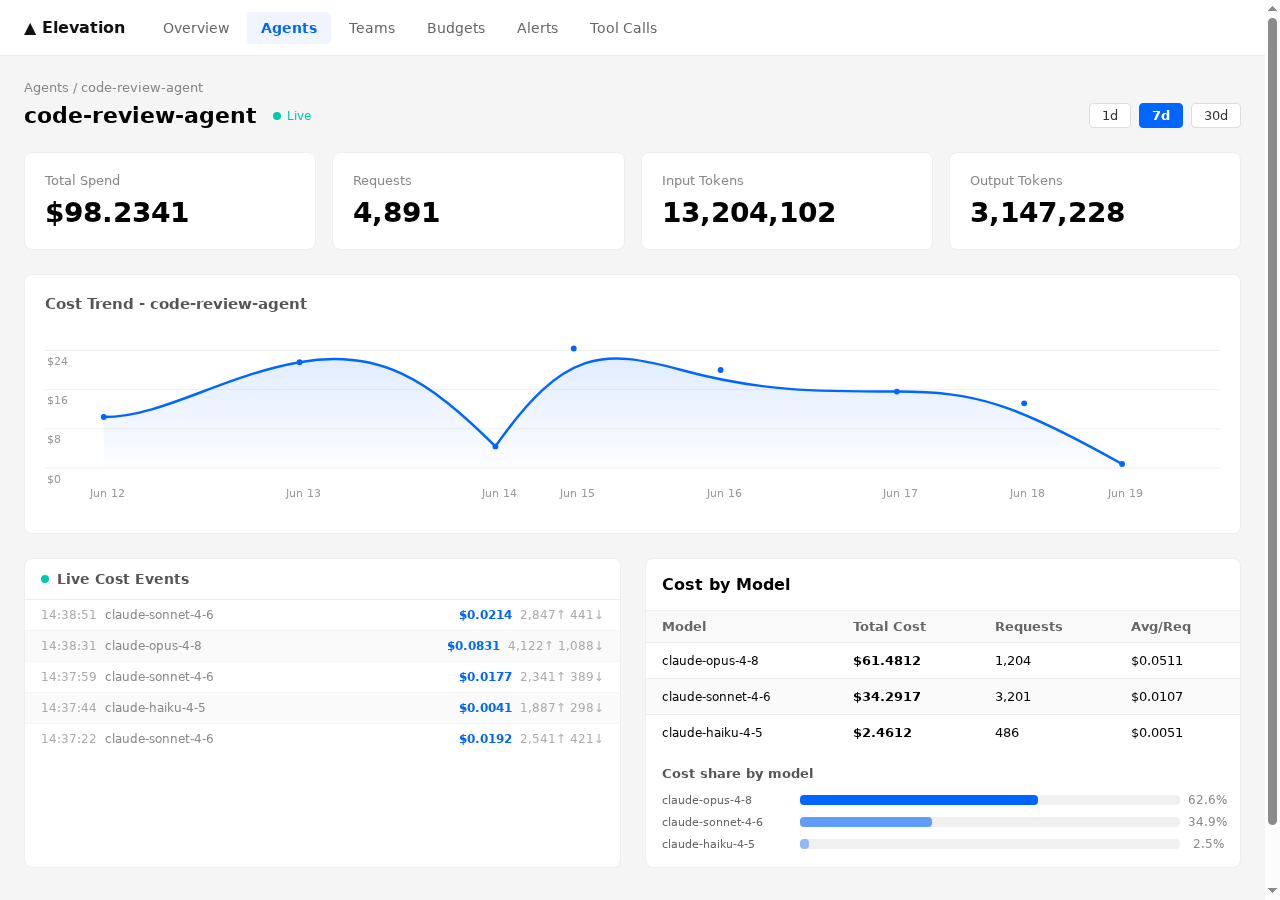
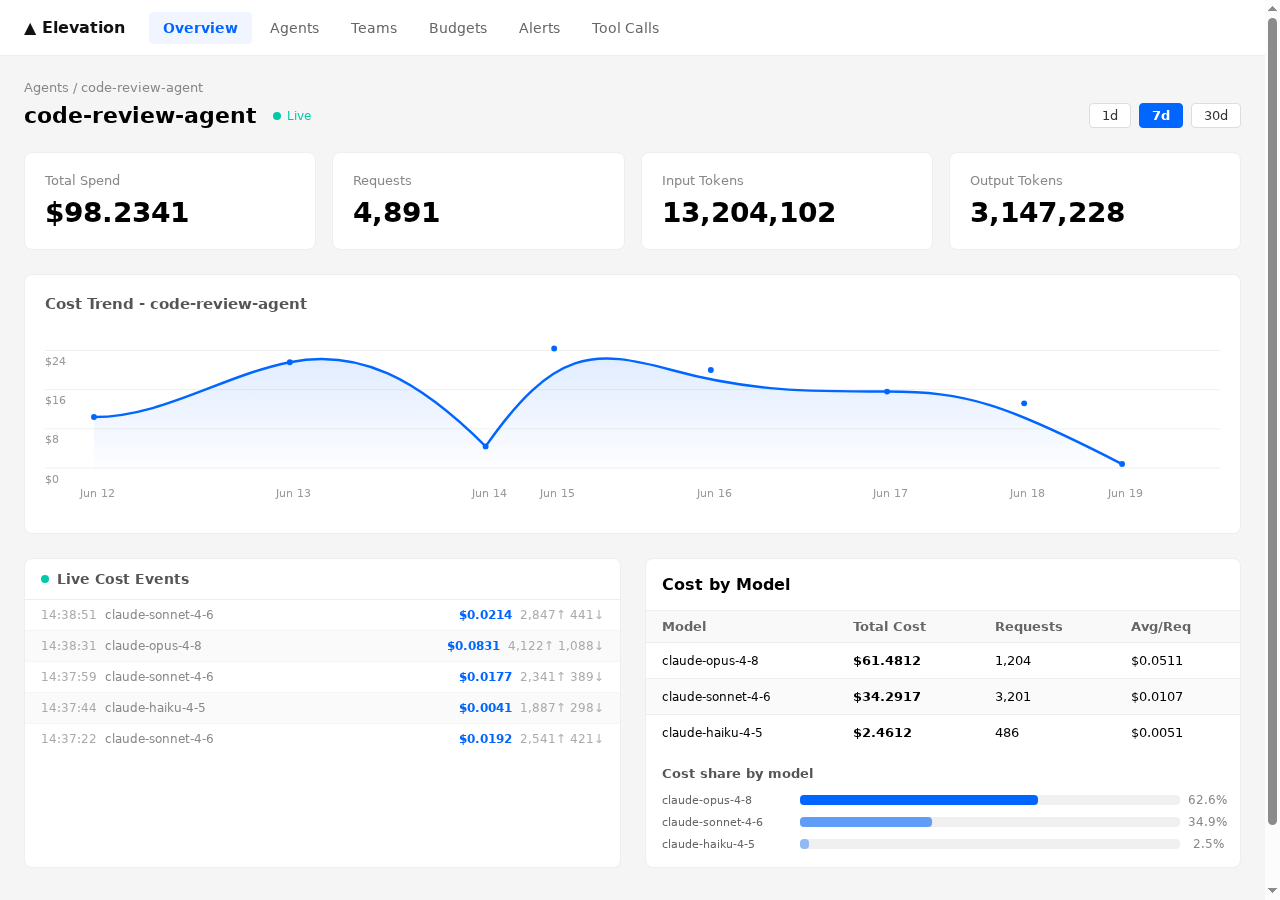
docs: add dashboard screenshots to README for Show HN launch
Generates browser screenshots of the overview, budgets, and agent-detail
pages using headless chromium + bundled system libs. Fixes TMP_DIR not
being exported to the node subprocess in gen-screenshots.sh, which caused
the HTML temp files to write to 'undefined/overview.html'.

Adds the overview screenshot inline after the "Open the dashboard" step
in the 5-minute setup section.

diff --git a/README.md b/README.md
@@ -122,6 +122,8 @@ The agent stops. You don't get the bill.
 
 `http://localhost:5173` - real-time cost breakdown by agent and team.
 
+![Elevation dashboard showing cost breakdown by agent with live cost events and budget utilization](docs/screenshots/dashboard-overview.png)
+
 ## Packages
 
 | Package | Port | Purpose |